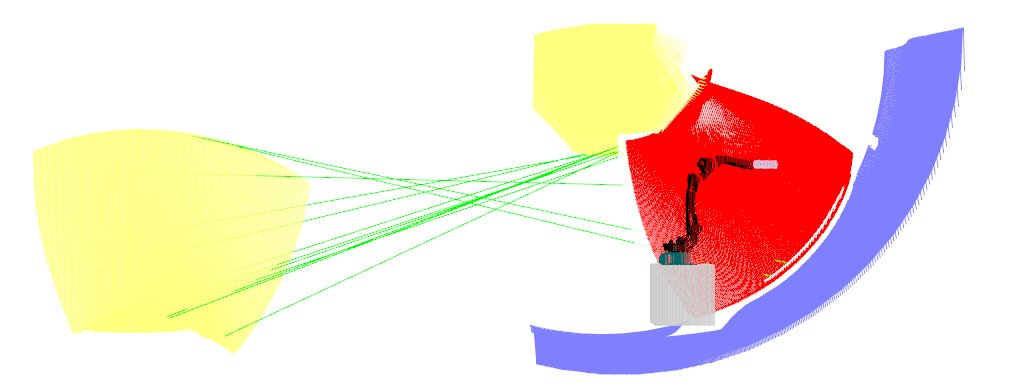
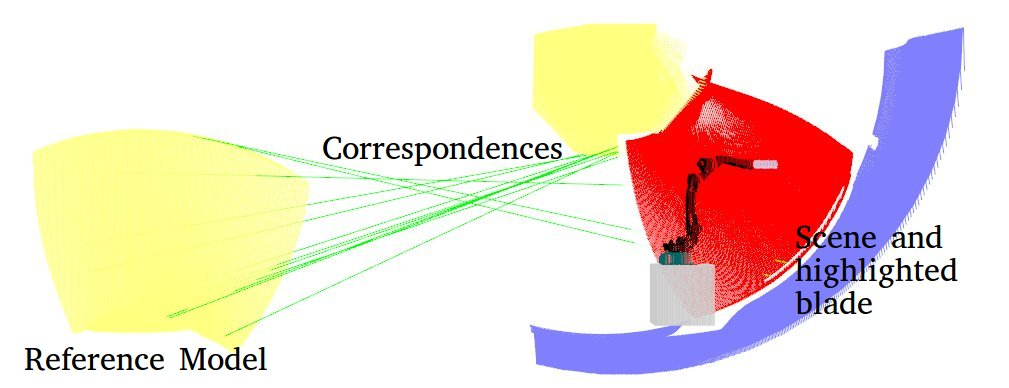
correcao legendas e descricao fig resultados calib

Changed region(s): [[0.7681, 0.5567, 0.9524, 0.8351], [0.3072, 0.3402, 0.5837, 0.433], [0.0, 0.8969, 0.2765, 0.9588]]

diff --git a/results.tex b/results.tex
@@ -127,14 +127,15 @@ The laser sensor was modeled following manufacturer's technical
 specifications, and different scenes were generated for several sensor
 positions. The algorithm is able to localize the blade in respect to the
 sensor's coordinate system, even in occlusion generated by the presence of the
-robotic manipulator. In Fig.~\ref{fig:calibration}, the left yellow blade is the
-reference model, the red blade is the object to be found, and green lines
-represent the matching features between the model and the scene.
+robotic manipulator. In Fig.~\ref{fig:calibration}, it can be seen the
+correspondeces between the reference model and the scene, or the turbine
+environment, and also the correctly localized blade instance highlighted in red.
 
 \begin{figure}
 	\centering
 	\includegraphics[width=.95\columnwidth]{figs/results/sim_mh12_sp}
-    \caption{Robotic manipulator joints' torques in color gradient.}
+    \caption{Blade reference model localized in the turbine environment with
+    occlusions.}
     \label{fig:calibration}
 \end{figure}
 
